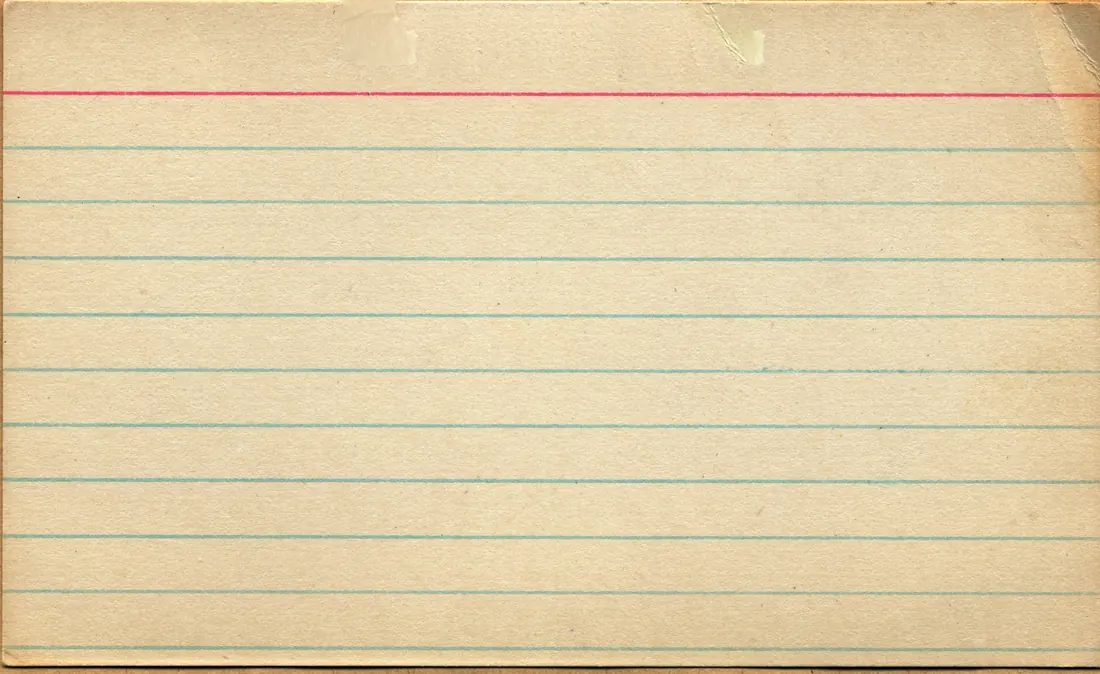
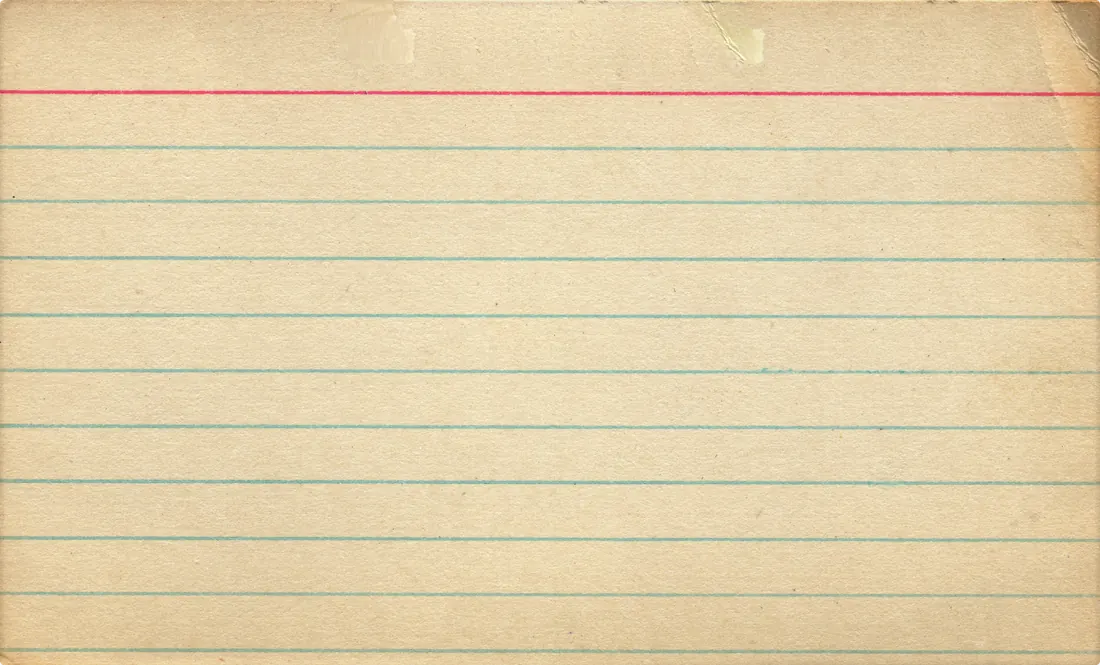
Home hero: clean index card edges (#33)
Trimmed the strip of cardboard and the scanner shadow line from the bottom
and the brown sliver on the left; slightly softened corners with a matching
radius on the shadow.

Claude-Session: https://claude.ai/code/session_011WjVxdgdgLvo2MdPv2oRQF

diff --git a/assets/site.css b/assets/site.css
@@ -2012,8 +2012,8 @@ footer{background:var(--ink)}
 @media(min-width:1281px){.hero-content{right:calc((100% - var(--maxw))/2)}}
 /* hero: the free look, an index card with a real input */
 .hero-look{position:absolute;left:max(6%,calc((100% - var(--maxw))/2 + var(--gut)));top:calc(10% + 96px);width:min(38%,450px);z-index:5;
-  transform:rotate(-1.6deg);background:#e9dcc0 url(../images/index-card-1100.webp) center/100% 100% no-repeat;
-  padding:30px 40px 30px;box-shadow:0 34px 70px -18px rgba(44,45,54,.22),0 12px 28px -10px rgba(44,45,54,.12),0 1px 3px rgba(44,45,54,.06)}
+  transform:rotate(-1.6deg);background:url(../images/index-card-1100.webp) center/100% 100% no-repeat;
+  padding:30px 40px 30px;border-radius:4px;box-shadow:0 34px 70px -18px rgba(44,45,54,.22),0 12px 28px -10px rgba(44,45,54,.12),0 1px 3px rgba(44,45,54,.06)}
 
 .hl-tape{position:absolute;left:31%;top:0;width:37.3%;aspect-ratio:500/154;transform:translateY(-40%);background:url(../images/tape-yellow.webp) center/100% 100% no-repeat;filter:drop-shadow(0 1px 1px rgba(44,45,54,.14))}
 .hl-k{font-family:var(--sans);font-size:10.5px;font-weight:600;letter-spacing:.28em;text-transform:uppercase;color:#a53c25;margin:0 0 22px;line-height:1}

diff --git a/channel-0/index.html b/channel-0/index.html
@@ -12,7 +12,7 @@
 <link rel="apple-touch-icon" sizes="180x180" href="../apple-touch-icon.png"/>
 <link rel="preload" href="../fonts/jost-latin-400-normal.woff2" as="font" type="font/woff2" crossorigin>
 <link rel="preload" href="../fonts/dm-serif-display-latin-400-normal.woff2" as="font" type="font/woff2" crossorigin>
-<link rel="stylesheet" href="../assets/site.css?v=202611080811"/>
+<link rel="stylesheet" href="../assets/site.css?v=202611080813"/>
 <style>
   body{background:#14181a;color:#e9e4d6}
   .z-top{display:flex;justify-content:space-between;align-items:center;padding:18px var(--gut);font-family:var(--sans);font-size:11px;letter-spacing:.3em;text-transform:uppercase;color:#a6ff9f}
@@ -114,6 +114,6 @@
 
 <p class="z-foot">That&rsquo;s all for tonight. <a href="../">Back to the beginning</a>.</p>
 
-<script src="../assets/convert.js?v=202611080811" defer></script>
+<script src="../assets/convert.js?v=202611080813" defer></script>
 </body>
 </html>

diff --git a/journal/counseling-website-design-page-by-page/index.html b/journal/counseling-website-design-page-by-page/index.html
@@ -25,7 +25,7 @@
 <link rel="apple-touch-icon" sizes="180x180" href="../../apple-touch-icon.png"/>
 <link rel="preload" href="../../fonts/jost-latin-600-normal.woff2" as="font" type="font/woff2" crossorigin>
 <link rel="preload" href="../../fonts/jost-latin-400-normal.woff2" as="font" type="font/woff2" crossorigin>
-<link rel="stylesheet" href="../../assets/site.css?v=202611080811"/>
+<link rel="stylesheet" href="../../assets/site.css?v=202611080813"/>
 </head>
 <body>
 
@@ -223,7 +223,7 @@
 }
 </script>
 
-<script src="../../assets/site.js?v=202611080811" defer></script>
-<script src="../../assets/convert.js?v=202611080811" defer></script>
+<script src="../../assets/site.js?v=202611080813" defer></script>
+<script src="../../assets/convert.js?v=202611080813" defer></script>
 </body>
 </html>

diff --git a/journal/do-you-need-a-blog-on-your-therapy-website/index.html b/journal/do-you-need-a-blog-on-your-therapy-website/index.html
@@ -25,7 +25,7 @@
 <link rel="apple-touch-icon" sizes="180x180" href="../../apple-touch-icon.png"/>
 <link rel="preload" href="../../fonts/jost-latin-600-normal.woff2" as="font" type="font/woff2" crossorigin>
 <link rel="preload" href="../../fonts/jost-latin-400-normal.woff2" as="font" type="font/woff2" crossorigin>
-<link rel="stylesheet" href="../../assets/site.css?v=202611080811"/>
+<link rel="stylesheet" href="../../assets/site.css?v=202611080813"/>
 </head>
 <body>
 
@@ -247,7 +247,7 @@
 }
 </script>
 
-<script src="../../assets/site.js?v=202611080811" defer></script>
-<script src="../../assets/convert.js?v=202611080811" defer></script>
+<script src="../../assets/site.js?v=202611080813" defer></script>
+<script src="../../assets/convert.js?v=202611080813" defer></script>
 </body>
 </html>

diff --git a/journal/how-clients-find-a-therapist-online/index.html b/journal/how-clients-find-a-therapist-online/index.html
@@ -25,7 +25,7 @@
 <link rel="apple-touch-icon" sizes="180x180" href="../../apple-touch-icon.png"/>
 <link rel="preload" href="../../fonts/jost-latin-600-normal.woff2" as="font" type="font/woff2" crossorigin>
 <link rel="preload" href="../../fonts/jost-latin-400-normal.woff2" as="font" type="font/woff2" crossorigin>
-<link rel="stylesheet" href="../../assets/site.css?v=202611080811"/>
+<link rel="stylesheet" href="../../assets/site.css?v=202611080813"/>
 </head>
 <body>
 
@@ -229,7 +229,7 @@
 }
 </script>
 
-<script src="../../assets/site.js?v=202611080811" defer></script>
-<script src="../../assets/convert.js?v=202611080811" defer></script>
+<script src="../../assets/site.js?v=202611080813" defer></script>
+<script src="../../assets/convert.js?v=202611080813" defer></script>
 </body>
 </html>

diff --git a/journal/how-much-does-a-therapist-website-cost/index.html b/journal/how-much-does-a-therapist-website-cost/index.html
@@ -25,7 +25,7 @@
 <link rel="apple-touch-icon" sizes="180x180" href="../../apple-touch-icon.png"/>
 <link rel="preload" href="../../fonts/jost-latin-600-normal.woff2" as="font" type="font/woff2" crossorigin>
 <link rel="preload" href="../../fonts/jost-latin-400-normal.woff2" as="font" type="font/woff2" crossorigin>
-<link rel="stylesheet" href="../../assets/site.css?v=202611080811"/>
+<link rel="stylesheet" href="../../assets/site.css?v=202611080813"/>
 </head>
 <body>
 
@@ -218,7 +218,7 @@
 }
 </script>
 
-<script src="../../assets/site.js?v=202611080811" defer></script>
-<script src="../../assets/convert.js?v=202611080811" defer></script>
+<script src="../../assets/site.js?v=202611080813" defer></script>
+<script src="../../assets/convert.js?v=202611080813" defer></script>
 </body>
 </html>

diff --git a/journal/how-to-choose-a-therapist-website-designer/index.html b/journal/how-to-choose-a-therapist-website-designer/index.html
@@ -25,7 +25,7 @@
 <link rel="apple-touch-icon" sizes="180x180" href="../../apple-touch-icon.png"/>
 <link rel="preload" href="../../fonts/jost-latin-600-normal.woff2" as="font" type="font/woff2" crossorigin>
 <link rel="preload" href="../../fonts/jost-latin-400-normal.woff2" as="font" type="font/woff2" crossorigin>
-<link rel="stylesheet" href="../../assets/site.css?v=202611080811"/>
+<link rel="stylesheet" href="../../assets/site.css?v=202611080813"/>
 </head>
 <body>
 
@@ -236,7 +236,7 @@
 }
 </script>
 
-<script src="../../assets/site.js?v=202611080811" defer></script>
-<script src="../../assets/convert.js?v=202611080811" defer></script>
+<script src="../../assets/site.js?v=202611080813" defer></script>
+<script src="../../assets/convert.js?v=202611080813" defer></script>
 </body>
 </html>

diff --git a/journal/how-to-tell-if-your-website-looks-ai-generated/index.html b/journal/how-to-tell-if-your-website-looks-ai-generated/index.html
@@ -25,7 +25,7 @@
 <link rel="apple-touch-icon" sizes="180x180" href="../../apple-touch-icon.png"/>
 <link rel="preload" href="../../fonts/jost-latin-600-normal.woff2" as="font" type="font/woff2" crossorigin>
 <link rel="preload" href="../../fonts/jost-latin-400-normal.woff2" as="font" type="font/woff2" crossorigin>
-<link rel="stylesheet" href="../../assets/site.css?v=202611080811"/>
+<link rel="stylesheet" href="../../assets/site.css?v=202611080813"/>
 </head>
 <body>
 
@@ -203,7 +203,7 @@
 }
 </script>
 
-<script src="../../assets/site.js?v=202611080811" defer></script>
-<script src="../../assets/convert.js?v=202611080811" defer></script>
+<script src="../../assets/site.js?v=202611080813" defer></script>
+<script src="../../assets/convert.js?v=202611080813" defer></script>
 </body>
 </html>

diff --git a/journal/i-googled-myself-so-you-dont-have-to/index.html b/journal/i-googled-myself-so-you-dont-have-to/index.html
@@ -25,7 +25,7 @@
 <link rel="apple-touch-icon" sizes="180x180" href="../../apple-touch-icon.png"/>
 <link rel="preload" href="../../fonts/jost-latin-600-normal.woff2" as="font" type="font/woff2" crossorigin>
 <link rel="preload" href="../../fonts/jost-latin-400-normal.woff2" as="font" type="font/woff2" crossorigin>
-<link rel="stylesheet" href="../../assets/site.css?v=202611080811"/>
+<link rel="stylesheet" href="../../assets/site.css?v=202611080813"/>
 </head>
 <body>
 
@@ -229,7 +229,7 @@
 }
 </script>
 
-<script src="../../assets/site.js?v=202611080811" defer></script>
-<script src="../../assets/convert.js?v=202611080811" defer></script>
+<script src="../../assets/site.js?v=202611080813" defer></script>
+<script src="../../assets/convert.js?v=202611080813" defer></script>
 </body>
 </html>

diff --git a/journal/i-ran-the-numbers-on-my-own-pricing-page/index.html b/journal/i-ran-the-numbers-on-my-own-pricing-page/index.html
@@ -25,7 +25,7 @@
 <link rel="apple-touch-icon" sizes="180x180" href="../../apple-touch-icon.png"/>
 <link rel="preload" href="../../fonts/jost-latin-600-normal.woff2" as="font" type="font/woff2" crossorigin>
 <link rel="preload" href="../../fonts/jost-latin-400-normal.woff2" as="font" type="font/woff2" crossorigin>
-<link rel="stylesheet" href="../../assets/site.css?v=202611080811"/>
+<link rel="stylesheet" href="../../assets/site.css?v=202611080813"/>
 </head>
 <body>
 
@@ -208,7 +208,7 @@
 }
 </script>
 
-<script src="../../assets/site.js?v=202611080811" defer></script>
-<script src="../../assets/convert.js?v=202611080811" defer></script>
+<script src="../../assets/site.js?v=202611080813" defer></script>
+<script src="../../assets/convert.js?v=202611080813" defer></script>
 </body>
 </html>

diff --git a/journal/is-your-therapy-website-contact-form-hipaa-compliant/index.html b/journal/is-your-therapy-website-contact-form-hipaa-compliant/index.html
@@ -25,7 +25,7 @@
 <link rel="apple-touch-icon" sizes="180x180" href="../../apple-touch-icon.png"/>
 <link rel="preload" href="../../fonts/jost-latin-600-normal.woff2" as="font" type="font/woff2" crossorigin>
 <link rel="preload" href="../../fonts/jost-latin-400-normal.woff2" as="font" type="font/woff2" crossorigin>
-<link rel="stylesheet" href="../../assets/site.css?v=202611080811"/>
+<link rel="stylesheet" href="../../assets/site.css?v=202611080813"/>
 </head>
 <body>
 
@@ -215,7 +215,7 @@
 }
 </script>
 
-<script src="../../assets/site.js?v=202611080811" defer></script>
-<script src="../../assets/convert.js?v=202611080811" defer></script>
+<script src="../../assets/site.js?v=202611080813" defer></script>
+<script src="../../assets/convert.js?v=202611080813" defer></script>
 </body>
 </html>

diff --git a/journal/psychology-today-vs-your-own-website/index.html b/journal/psychology-today-vs-your-own-website/index.html
@@ -25,7 +25,7 @@
 <link rel="apple-touch-icon" sizes="180x180" href="../../apple-touch-icon.png"/>
 <link rel="preload" href="../../fonts/jost-latin-600-normal.woff2" as="font" type="font/woff2" crossorigin>
 <link rel="preload" href="../../fonts/jost-latin-400-normal.woff2" as="font" type="font/woff2" crossorigin>
-<link rel="stylesheet" href="../../assets/site.css?v=202611080811"/>
+<link rel="stylesheet" href="../../assets/site.css?v=202611080813"/>
 </head>
 <body>
 
@@ -215,7 +215,7 @@
 }
 </script>
 
-<script src="../../assets/site.js?v=202611080811" defer></script>
-<script src="../../assets/convert.js?v=202611080811" defer></script>
+<script src="../../assets/site.js?v=202611080813" defer></script>
+<script src="../../assets/convert.js?v=202611080813" defer></script>
 </body>
 </html>
